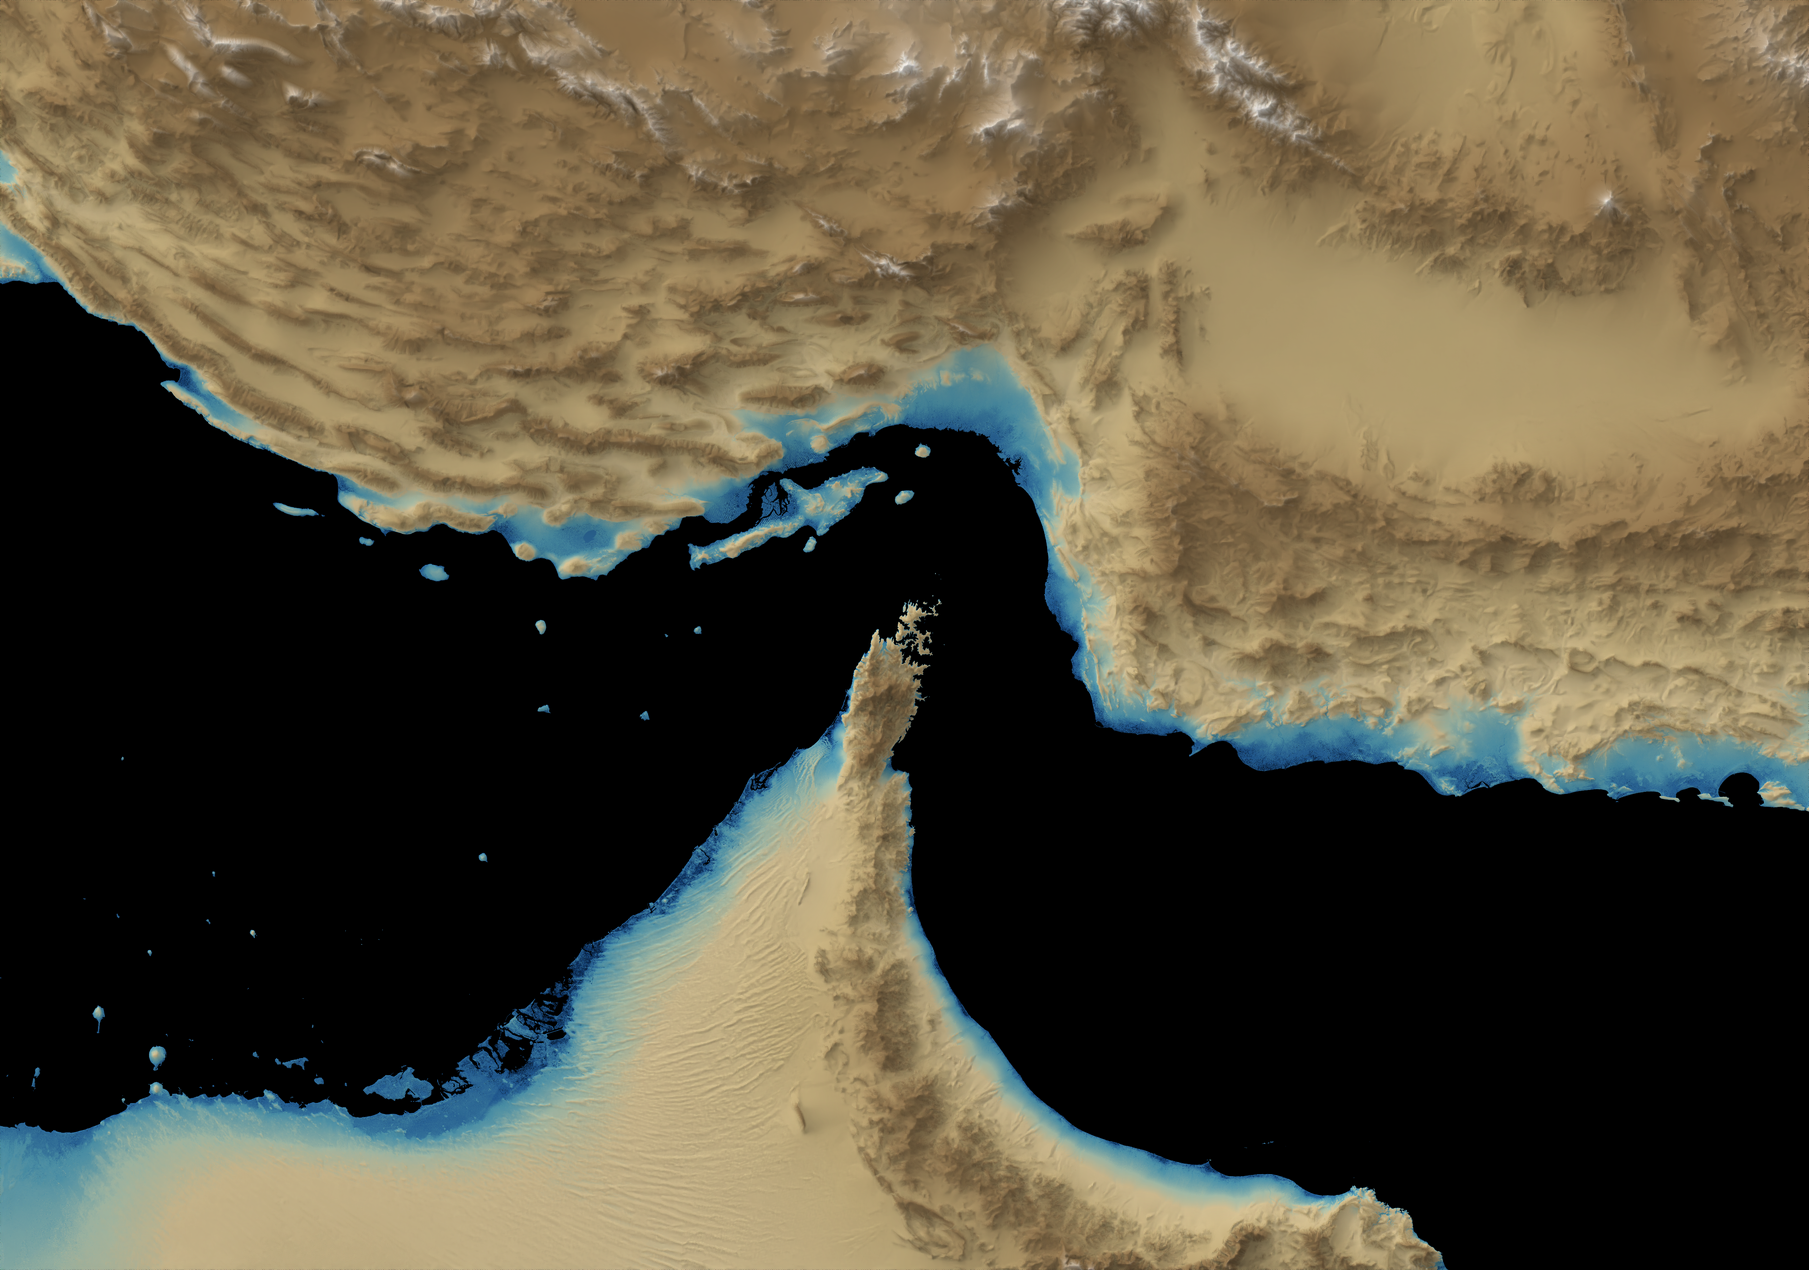
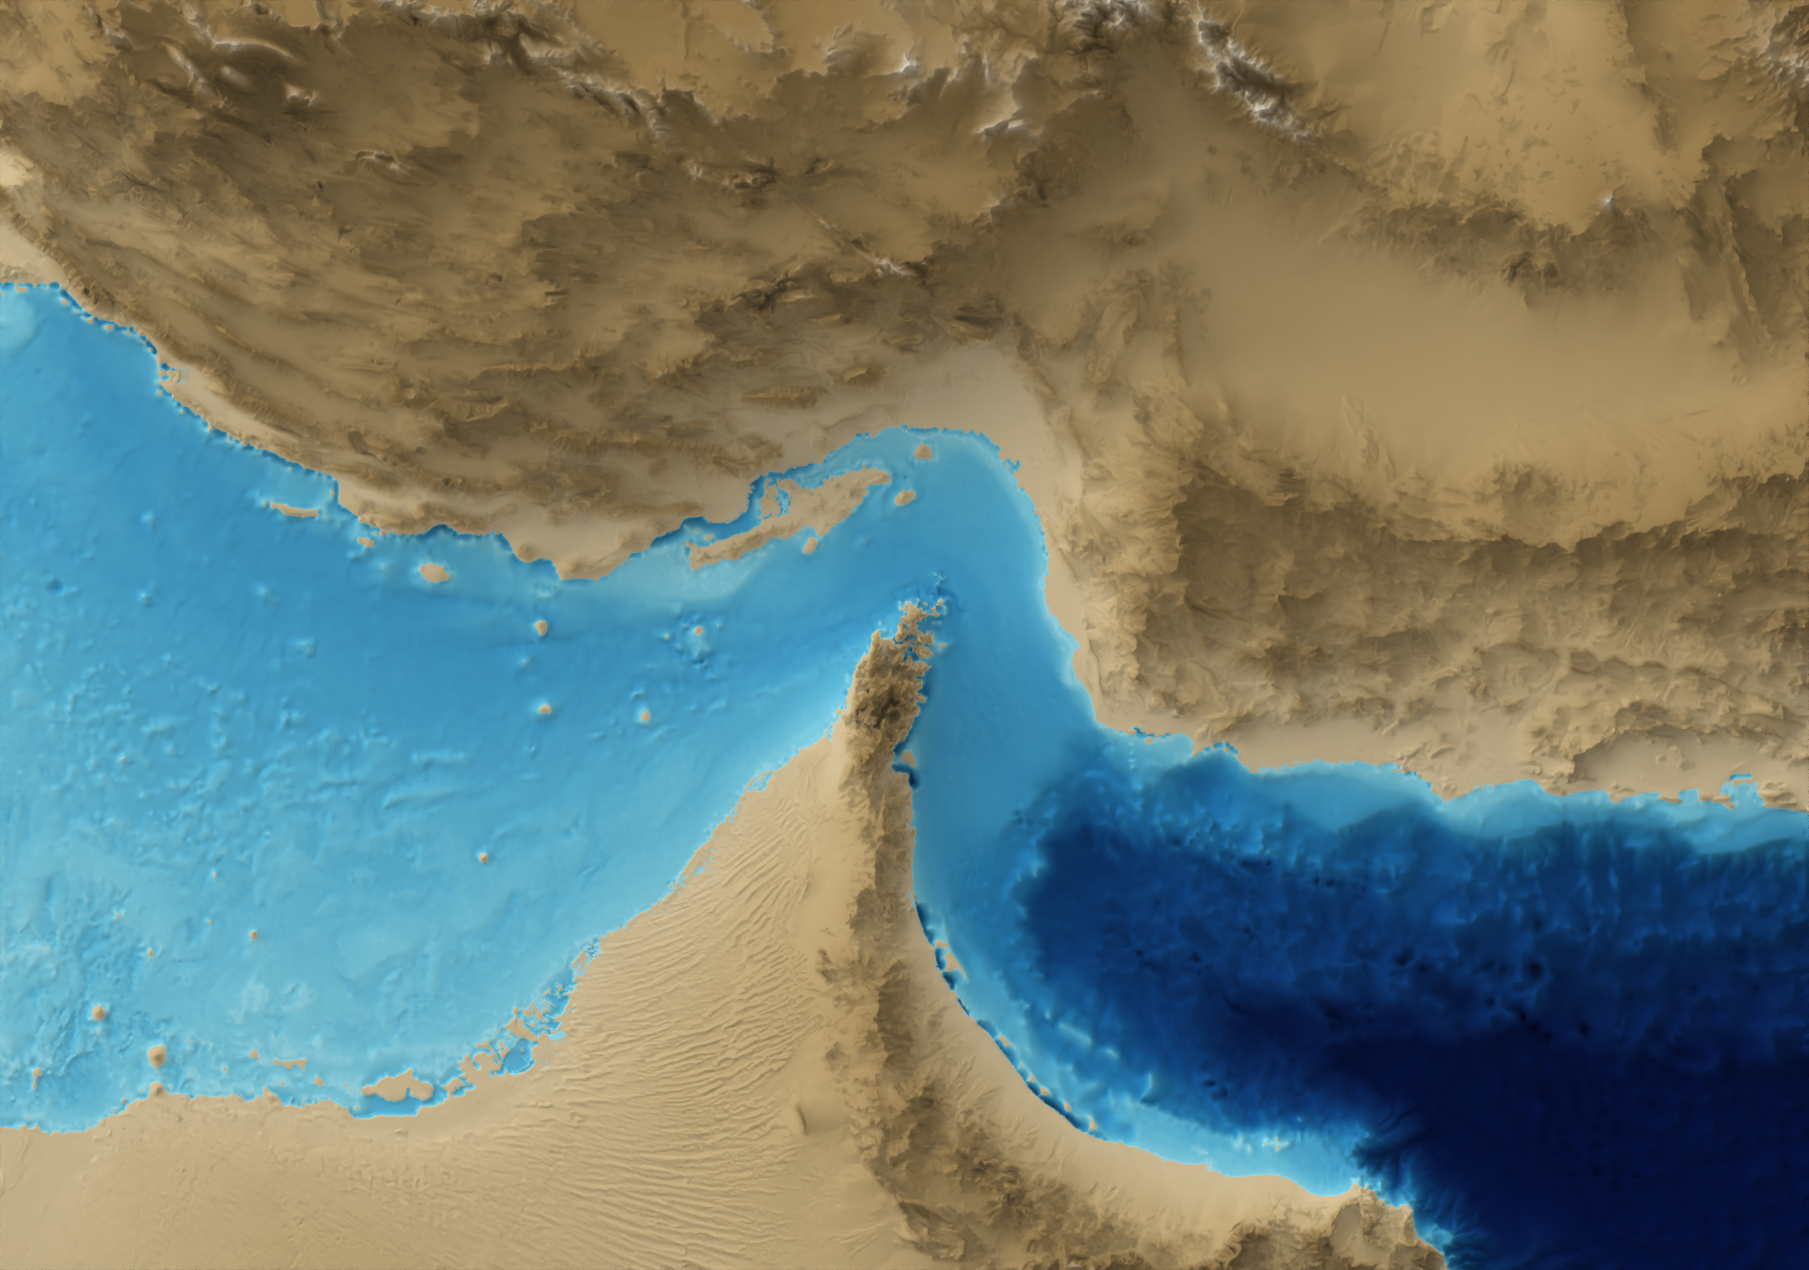
Reserve UInt16=0 as nodata sentinel to support bathymetry

diff --git a/blender_relief/mask.py b/blender_relief/mask.py
@@ -157,16 +157,16 @@ def apply_clip_mask(
 
 
 def _rescale_ramp(ramp_path: str, src_min: float, src_max: float, out_path: str) -> None:
-    """Write a new gdaldem color ramp file with elevations rescaled to UInt16 (0–65535).
+    """Write a new gdaldem color ramp file with elevations rescaled to UInt16 [1–65535].
 
     ``dem_blender.tif`` stores rescaled values where:
-        uint16 = (elev - src_min) / (src_max - src_min) * 65535
+        uint16 = 1 + (elev - src_min) / (src_max - src_min) * 65534
 
-    This function rewrites the ramp so the elevation breakpoints match the
-    UInt16 pixel values in ``dem_blender.tif``.
+    UInt16 value 0 is reserved as the nodata sentinel (pixels with no
+    elevation data, e.g. outside the DEM extent). The ``nv`` entry in the
+    colour ramp handles those.
 
-    Lines starting with ``#`` are preserved as comments. The special ``nv``
-    (no-data) entry is also preserved verbatim.
+    Lines starting with ``#`` are preserved as comments.
     """
     scale = src_max - src_min if (src_max - src_min) != 0 else 1.0
     lines_out = []
@@ -185,8 +185,8 @@ def _rescale_ramp(ramp_path: str, src_min: float, src_max: float, out_path: str)
             except ValueError:
                 lines_out.append(line)
                 continue
-            uint16_val = (elev - src_min) / scale * 65535.0
-            uint16_val = max(0.0, min(65535.0, uint16_val))
+            uint16_val = 1.0 + (elev - src_min) / scale * 65534.0
+            uint16_val = max(1.0, min(65535.0, uint16_val))
             rest = " ".join(parts[1:])
             lines_out.append(f"{uint16_val:.2f} {rest}\n")
     with open(out_path, "w") as f:

diff --git a/blender_relief/process.py b/blender_relief/process.py
@@ -120,13 +120,19 @@ def process_dem(
         proj_win = None
         log.debug("Rescaling to 16-bit (full DEM, no crop)...")
 
+    # Map real data to [1, 65535], reserving UInt16=0 as the nodata sentinel.
+    # This avoids collisions between nodata pixels and actual minimum-elevation
+    # pixels, and prevents the "nodata rounded/clamped" GDAL warning that occurs
+    # when the source nodata value (e.g. -32768 in SRTM15Plus) is out of the
+    # UInt16 range.
     ds = gdal.Translate(
         output_path, reprojected_path,
         options=gdal.TranslateOptions(
             outputType=gdal.GDT_UInt16,
-            scaleParams=[[src_min, src_max, 0, 65535]],
+            scaleParams=[[src_min, src_max, 1, 65535]],
             projWin=proj_win,
             format="GTiff",
+            noData=0,
         ),
     )
     if ds is None:
